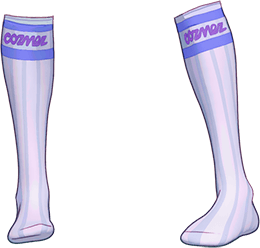
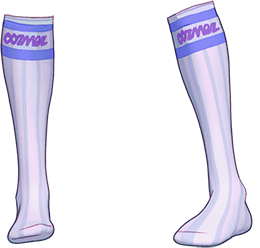
Finish game screen

Changed region(s): [[0.6462, 0.0, 1.0, 1.0]]

diff --git a/src/constants/clothes.js b/src/constants/clothes.js
@@ -162,7 +162,7 @@ export const NYT_CLOTHING_ITEMS = [
     slot: "lower",
     uiImage: NYTBottom1UI,
     mainImage: NYTBottom1,
-    position: { x: 20, y: 180, zIndex: 5 },
+    position: { x: 95, y: 246, zIndex: 5 },
   },
   {
     id: "NB002",
@@ -172,7 +172,7 @@ export const NYT_CLOTHING_ITEMS = [
     slot: "lower",
     uiImage: NYTBottom2UI,
     mainImage: NYTBottom2,
-    position: { x: 20, y: 180, zIndex: 5 },
+    position: { x: 30, y: 224, zIndex: 5 },
   },
   {
     id: "NB003",
@@ -182,7 +182,7 @@ export const NYT_CLOTHING_ITEMS = [
     slot: "lower",
     uiImage: NYTBottom3UI,
     mainImage: NYTBottom3,
-    position: { x: 20, y: 180, zIndex: 5 },
+    position: { x: 100, y: 240, zIndex: 5 },
   },
 
   // NYT Chains
@@ -194,7 +194,7 @@ export const NYT_CLOTHING_ITEMS = [
     slot: "chain1",
     uiImage: NYTChain1UI,
     mainImage: NYTChain1,
-    position: { x: 172, y: 89, zIndex: 20 },
+    position: { x: 157, y: 89, zIndex: 20 },
   },
   {
     id: "NC002",
@@ -204,7 +204,7 @@ export const NYT_CLOTHING_ITEMS = [
     slot: "chain2",
     uiImage: NYTChain2UI,
     mainImage: NYTChain2,
-    position: { x: 178, y: 75, zIndex: 20 },
+    position: { x: 153, y: 86, zIndex: 20 },
   },
 
   // NYT Choker
@@ -216,7 +216,7 @@ export const NYT_CLOTHING_ITEMS = [
     slot: "choker",
     uiImage: NYTChoker1UI,
     mainImage: NYTChoker1,
-    position: { x: 100, y: 130, zIndex: 19 },
+    position: { x: 170, y: 100, zIndex: 19 },
   },
 
   // NYT Hat
@@ -228,7 +228,7 @@ export const NYT_CLOTHING_ITEMS = [
     slot: "hat",
     uiImage: NYTHat1UI,
     mainImage: NYTHat1,
-    position: { x: 100, y: 50, zIndex: 25 },
+    position: { x: 131, y: -15, zIndex: 25 },
   },
 
   // NYT Tops
@@ -269,7 +269,7 @@ export const NYT_CLOTHING_ITEMS = [
     type: CLOTHING_TYPES.TOPS,
     character: CHARACTERS.NYT,
     name: "Coat 1",
-    slot: "outerCoat",
+    slot: "middleCoat",
     uiImage: NYTCoat1UI,
     mainImage: NYTCoat1Top,
     baseImage: NYTCoat1Base,
@@ -281,11 +281,11 @@ export const NYT_CLOTHING_ITEMS = [
     type: CLOTHING_TYPES.TOPS,
     character: CHARACTERS.NYT,
     name: "Coat 2",
-    slot: "outerCoat",
+    slot: "middleCoat",
     uiImage: NYTCoat2UI,
     mainImage: NYTCoat2,
     baseImage: NYTCoat2Base,
-    position: { x: 27, y: 28, zIndex: 15 },
+    position: { x: 27, y: 28, zIndex: 30 },
     basePosition: { x: 27, y: 28, zIndex: -1 },
   },
   {
@@ -309,7 +309,7 @@ export const NYT_CLOTHING_ITEMS = [
     uiImage: NYTOuterCoat1UI,
     mainImage: NYTOuterCoat1Top,
     baseImage: NYTOuterCoat1Base,
-    position: { x: 0, y: 100, zIndex: 17 },
+    position: { x: 0, y: 100, zIndex: 31 },
     basePosition: { x: 0, y: 100, zIndex: -1 },
   },
 
@@ -322,7 +322,7 @@ export const NYT_CLOTHING_ITEMS = [
     slot: "shoes",
     uiImage: NYTShoes01UI,
     mainImage: NYTShoes01,
-    position: { x: -9, y: 578, zIndex: 2 },
+    position: { x: 95, y: 546, zIndex: 2 },
   },
   {
     id: "NS002",
@@ -332,7 +332,7 @@ export const NYT_CLOTHING_ITEMS = [
     slot: "shoes",
     uiImage: NYTShoes02UI,
     mainImage: NYTShoes02,
-    position: { x: -9, y: 578, zIndex: 2 },
+    position: { x: 92, y: 582, zIndex: 2 },
   },
   {
     id: "NS003",
@@ -342,7 +342,7 @@ export const NYT_CLOTHING_ITEMS = [
     slot: "shoes",
     uiImage: NYTShoes03UI,
     mainImage: NYTShoes03,
-    position: { x: -2, y: 551, zIndex: 2 },
+    position: { x: 86, y: 559, zIndex: 2 },
   },
 
   // NYT Socks
@@ -354,7 +354,7 @@ export const NYT_CLOTHING_ITEMS = [
     slot: "socks",
     uiImage: NYTSocks1UI,
     mainImage: NYTSocks1,
-    position: { x: 100, y: 450, zIndex: 1 },
+    position: { x: 94, y: 437, zIndex: 1 },
   },
   {
     id: "NSK002",
@@ -364,7 +364,7 @@ export const NYT_CLOTHING_ITEMS = [
     slot: "socks",
     uiImage: NYTSocks2UI,
     mainImage: NYTSocks2,
-    position: { x: 100, y: 450, zIndex: 1 },
+    position: { x: 95, y: 475, zIndex: 1 },
   },
 ];
 
